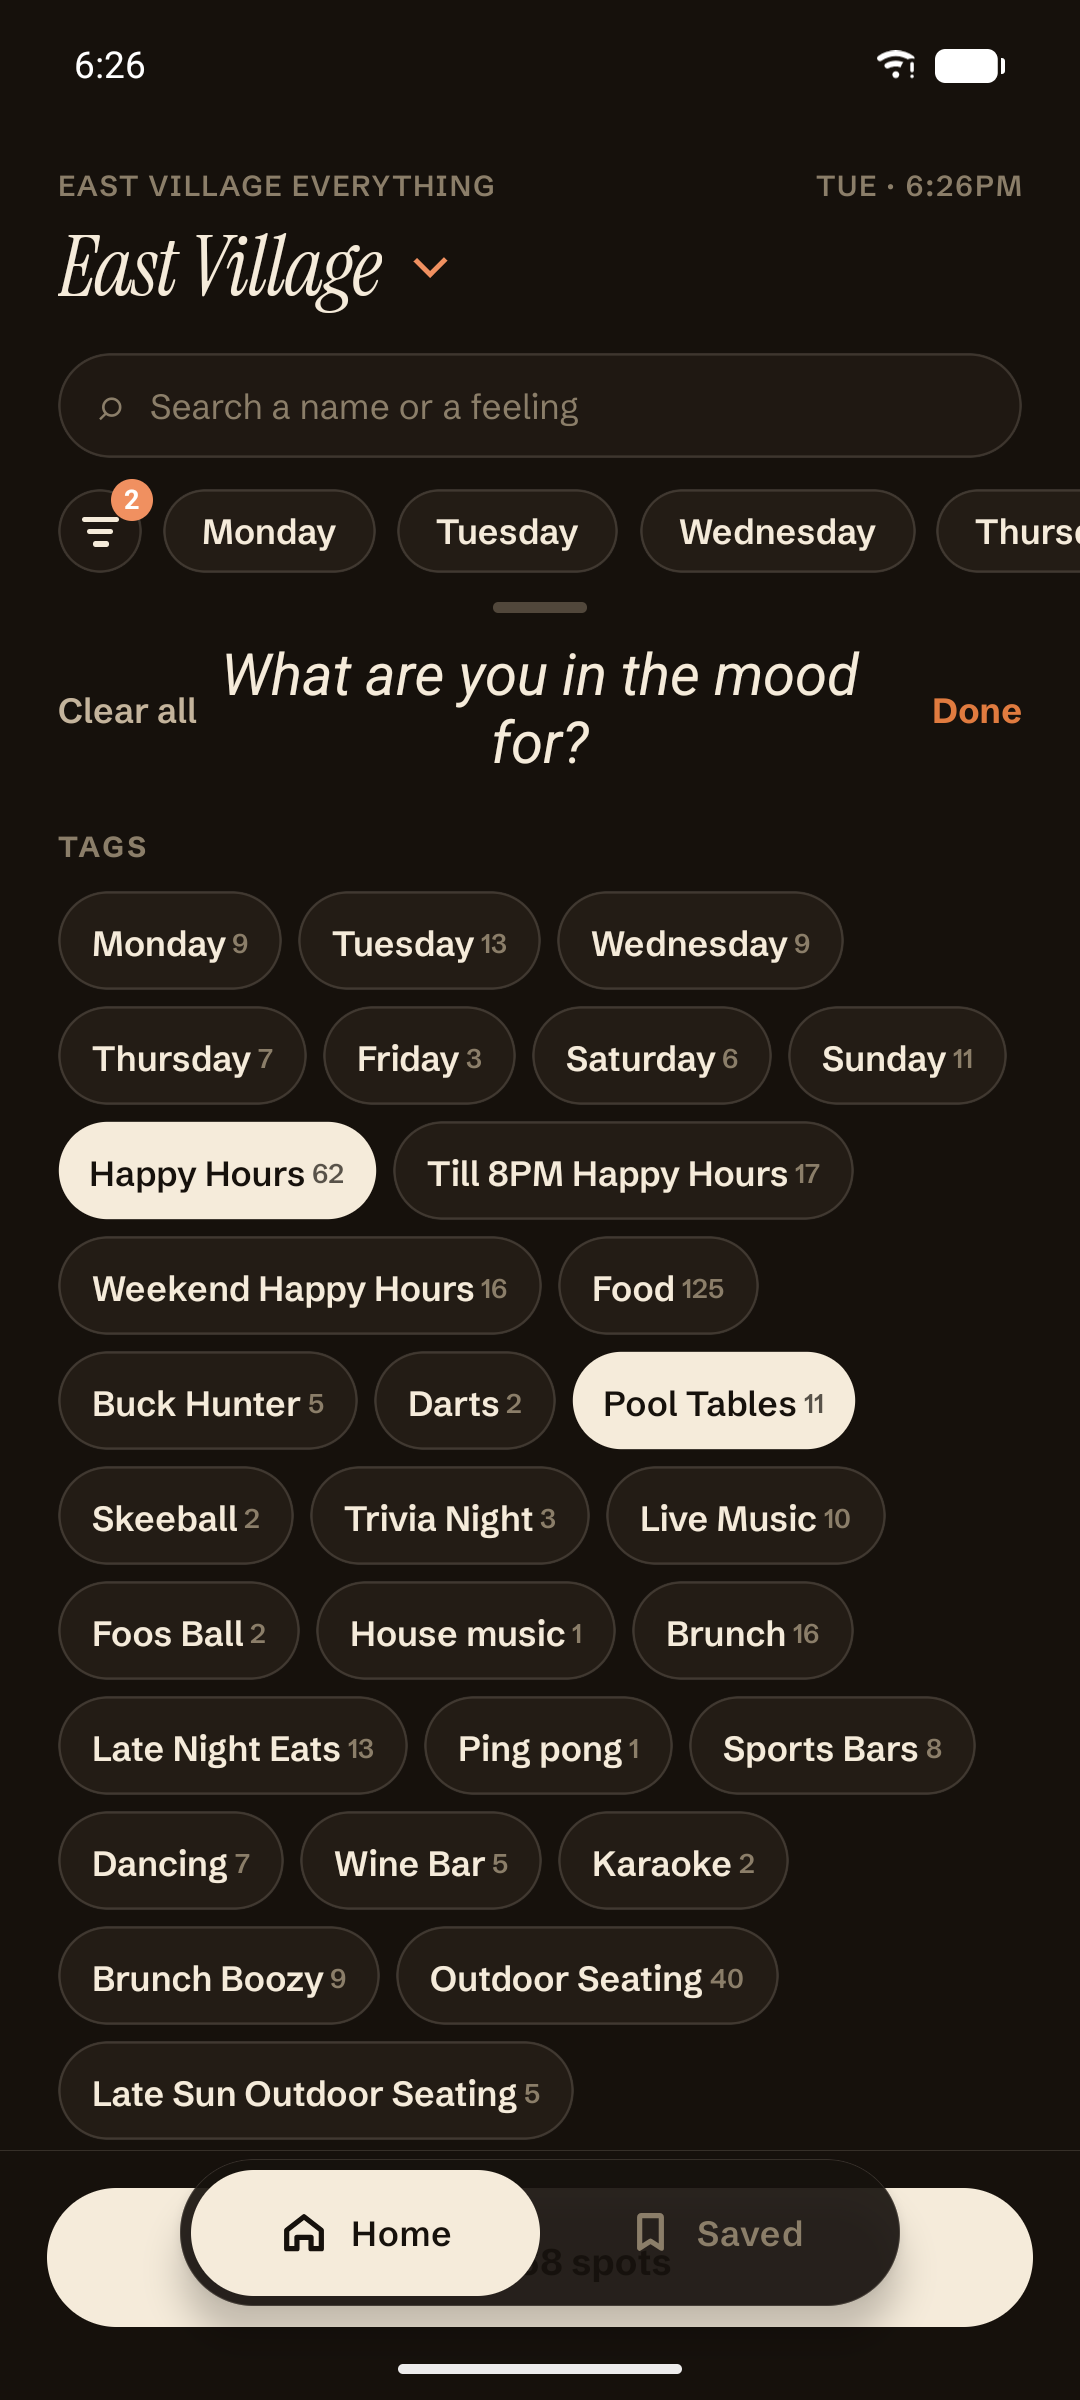
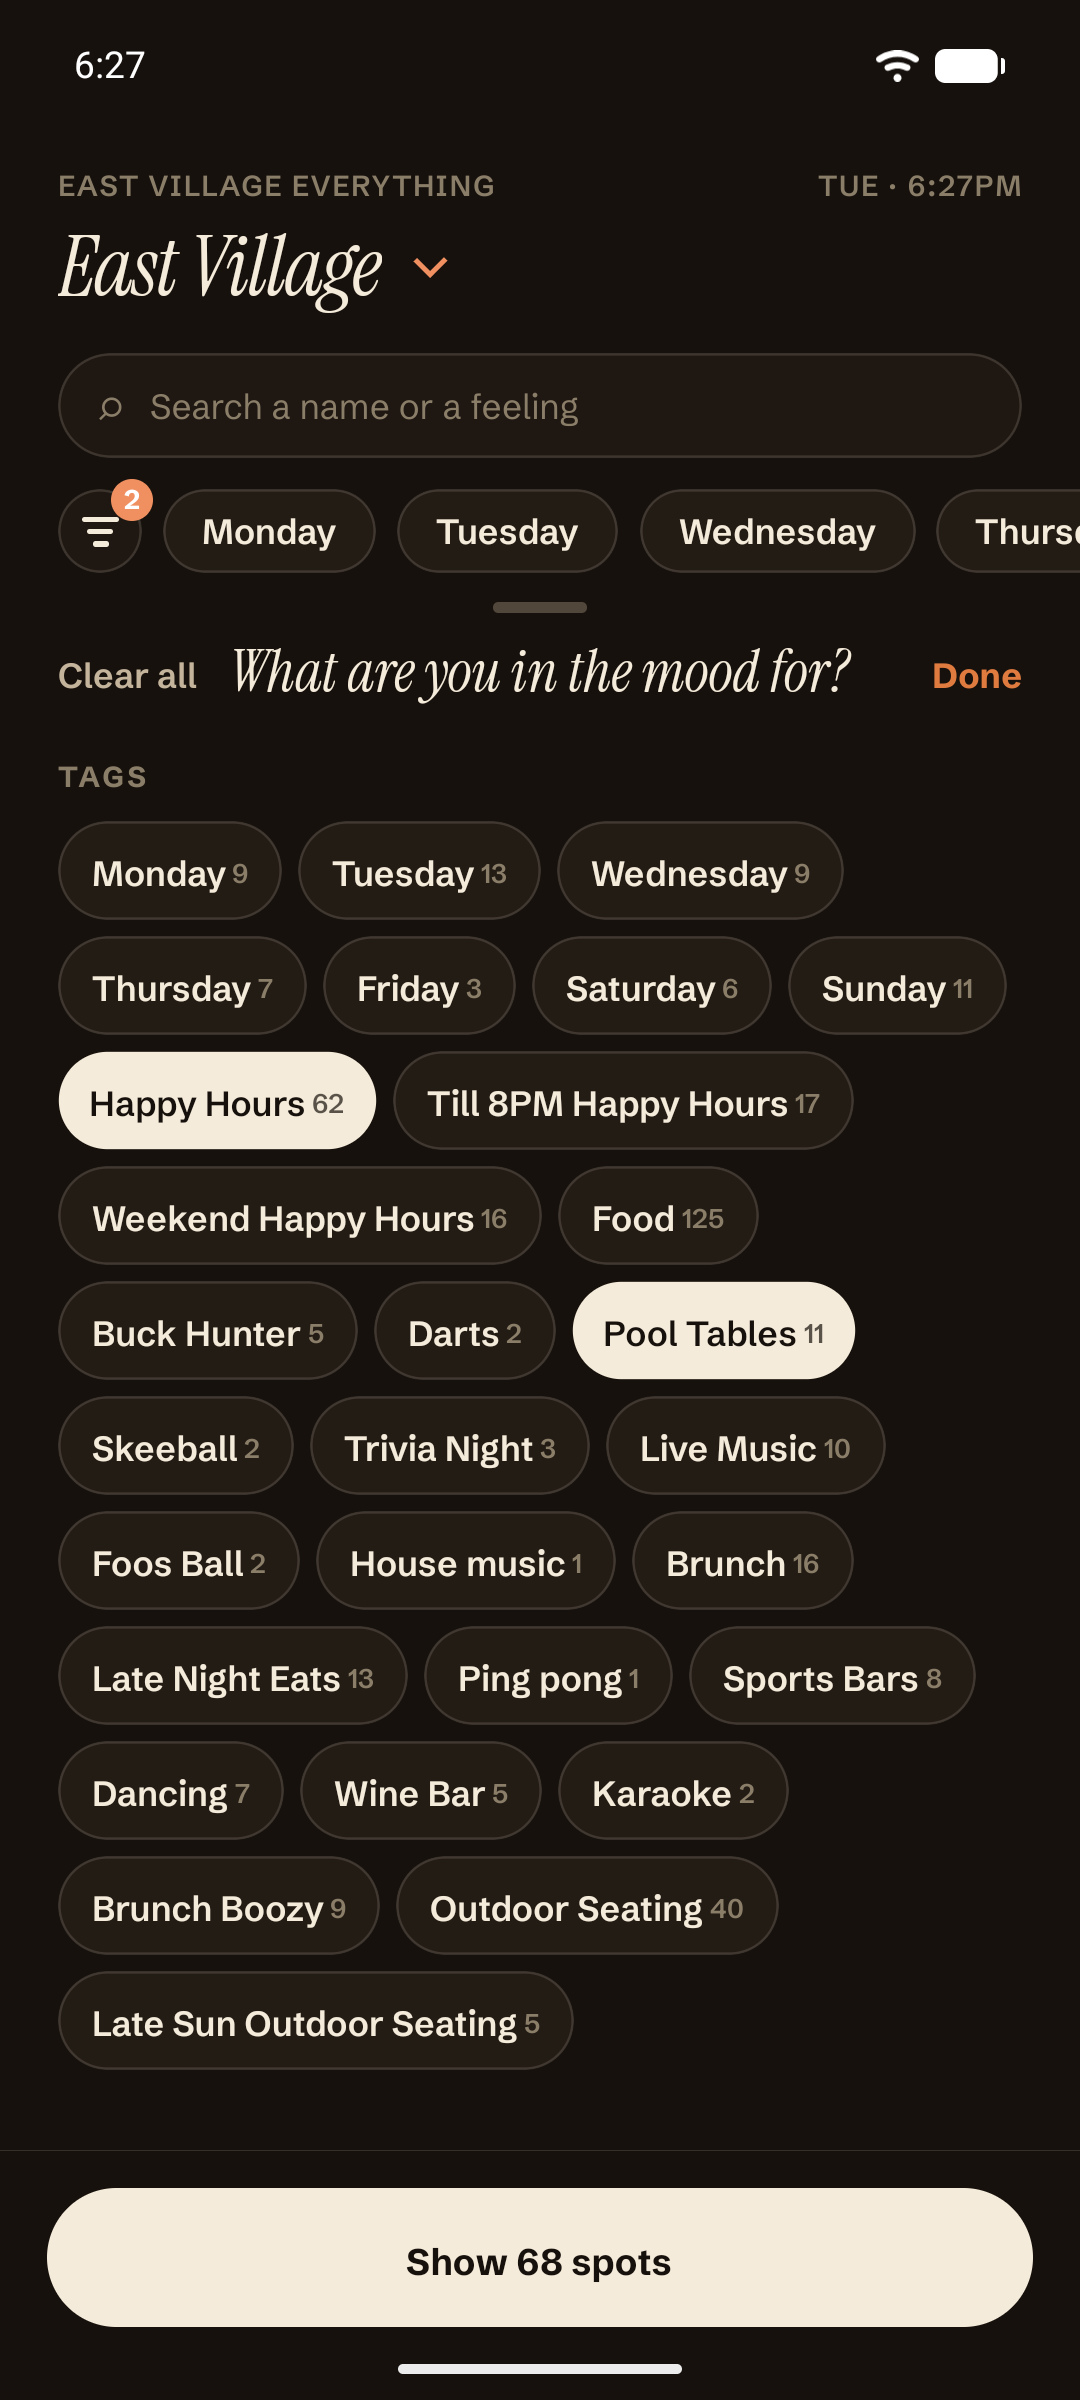
chore(mobile): 5.8 Android build 3 verified, device pass rerun, Play screenshots refreshed

diff --git a/scripts/ralph/plan.md b/scripts/ralph/plan.md
@@ -153,7 +153,7 @@ task may revisit:
   Done when: `cd apps/mobile && npx tsc --noEmit && npm test` pass with the new tests; `grep -rn "fontStyle: 'italic'" apps/mobile/src` prints nothing; screenshots looked at on iOS (and Android if Expo Go installed) show: the filter sheet open with the whole "Show n spots" button visible and no capsule, the capsule back after closing, the sheet title on one line in the serif italic, and the Saved tab's count equal to the number of saved rows. Prefix: `fix(mobile)`.
 - [x] **5.7 iOS build 14 to TestFlight.** Blocked by: 5.6. `apps/mobile/app.json`: `ios.buildNumber` "14" and `android.versionCode` 3 (`expo.version` stays 1.1.0). Regenerate the Play changelog as `metadata/android/en-US/changelogs/3.txt` (same text as `2.txt`; delete `2.txt`; update `scripts/app-store-metadata.mjs` if it hard-codes the number, better: read `versionCode` from `app.json`). Push to main (pre-push checks from the prompt) and wait for the workflows. Then exactly as 5.2: `eas build --local --profile production --platform ios --output ./build-14.ipa --non-interactive` and `eas submit --profile production --platform ios --path ./build-14.ipa --non-interactive --wait`. The 1.1.0 version and its text already exist in App Store Connect; do not run `deliver` again, do not submit for review.
   Done when: `eas submit` exited 0; the App Store Connect check from the 5.2 entry shows build 14 for 1.1.0 processing or VALID and the 1.1.0 version still PREPARE_FOR_SUBMISSION; `progress.txt` records it. Prefix: `chore(mobile)`.
-- [ ] **5.8 Android bundle rebuilt at versionCode 3, device pass rerun, screenshots refreshed.** Blocked by: 5.7. Same as 5.3 with the new commit: the production bundle and the preview APK on EAS, downloaded to `apps/mobile/build-3.aab` and `apps/mobile/build-3.apk`; `bundletool dump manifest` shows `versionCode` 3, `versionName` 1.1.0, `targetSdkVersion` 35 or higher; the signer SHA-256 is the upload key from 2.3. Rerun the nine-step device pass from 5.3 on `eve-pixel` with `build-3.apk` (run the logcat check before the airplane-mode step, or use the pattern `FATAL EXCEPTION| E AndroidRuntime`), plus four more steps, each with a screenshot looked at: (10) the filter sheet open shows the whole "Show n spots" button and no Home/Saved capsule; tapping the button closes the sheet and the capsule returns; (11) the sheet title is on one line in the serif italic; (12) the Saved tab's count line equals the number of saved rows; (13) photo paging: find a prod place with more than one photo (`for id in $(curl -s https://eastvillageeverything.nyc/api/places | jq -r '.[].id'); do …/api/places/$id | jq '.photos | length'`; stop at the first with 2 or more), open it, swipe the hero, and confirm the second photo, the dots and the caption change; if no place has two photos, write that and skip the step, do not add a photo to prod. Retake `05-filters.png` and `06-saved.png` under `docs/app-store/android/` (and any other of the six that changed) from this build and rerun `node scripts/app-store-metadata.mjs`. Delete `apps/mobile/build-2.aab` and `build-2.apk`. In this file, update task 2.6 to submit the 5.8 build id (`--path ./build-3.aab` as the fallback, `--version_code 3`) and task 2.7 to name `build-3.apk`; in `docs/app-store/play-release-runbook.md` replace every `build-2` and version code 2 with 3. Any failed step becomes a `fix(mobile)` task under this one and the box stays unticked.
+- [x] **5.8 Android bundle rebuilt at versionCode 3, device pass rerun, screenshots refreshed.** Blocked by: 5.7. Same as 5.3 with the new commit: the production bundle and the preview APK on EAS, downloaded to `apps/mobile/build-3.aab` and `apps/mobile/build-3.apk`; `bundletool dump manifest` shows `versionCode` 3, `versionName` 1.1.0, `targetSdkVersion` 35 or higher; the signer SHA-256 is the upload key from 2.3. Rerun the nine-step device pass from 5.3 on `eve-pixel` with `build-3.apk` (run the logcat check before the airplane-mode step, or use the pattern `FATAL EXCEPTION| E AndroidRuntime`), plus four more steps, each with a screenshot looked at: (10) the filter sheet open shows the whole "Show n spots" button and no Home/Saved capsule; tapping the button closes the sheet and the capsule returns; (11) the sheet title is on one line in the serif italic; (12) the Saved tab's count line equals the number of saved rows; (13) photo paging: find a prod place with more than one photo (`for id in $(curl -s https://eastvillageeverything.nyc/api/places | jq -r '.[].id'); do …/api/places/$id | jq '.photos | length'`; stop at the first with 2 or more), open it, swipe the hero, and confirm the second photo, the dots and the caption change; if no place has two photos, write that and skip the step, do not add a photo to prod. Retake `05-filters.png` and `06-saved.png` under `docs/app-store/android/` (and any other of the six that changed) from this build and rerun `node scripts/app-store-metadata.mjs`. Delete `apps/mobile/build-2.aab` and `build-2.apk`. In this file, update task 2.6 to submit the 5.8 build id (`--path ./build-3.aab` as the fallback, `--version_code 3`) and task 2.7 to name `build-3.apk`; in `docs/app-store/play-release-runbook.md` replace every `build-2` and version code 2 with 3. Any failed step becomes a `fix(mobile)` task under this one and the box stays unticked.
   Done when: both builds `FINISHED`; manifest and signature checks recorded with the build ids; all thirteen steps passed (or 13 skipped with the reason) with screenshots looked at; `grep -rn "build-2\|version_code 2\|versionCode 2" docs/app-store/play-release-runbook.md scripts/ralph/plan.md` prints only lines inside ticked tasks. Prefix: `chore(mobile)`.
 - [ ] **5.5 [HUMAN] Try iOS 1.1.0 and release it.** Blocked by: 5.7. Install build 14 from TestFlight. Also check the three fixes from 5.6: the filter sheet's button is not covered, and the Saved tab's count matches its rows. Switch neighborhoods from the title, relaunch, search across neighborhoods, check Saved, open a Lower East Side place's map, swipe photos on a place that has several (add a second photo to one through the admin if none does). Read the 1.1.0 description and release notes in App Store Connect. Submit for review and release.
   Done when: 1.1.0 is released on the App Store, or every problem is a `fix(mobile)` task under a new Phase 5b in this file.
@@ -162,9 +162,9 @@ task may revisit:
 
 - [ ] **2.4 [HUMAN] Play Console: account checks, app, service account.** Follow `docs/app-store/play-release-runbook.md` sections 1 to 4 (written by 5.4; until then the short version is: the Android device check on a real phone, then the contact phone number, then Create app "East Village Everything" / English (US) / app / free, then Setup > API access with a service account that has Release manager and a JSON key saved as `apps/mobile/google-play-key.json`). Write in `progress.txt` whether the account shows production access or the closed-testing requirement.
   Done when: `ls apps/mobile/google-play-key.json` exists locally and `progress.txt` has the production-access status.
-- [ ] **2.6 Submit the staged bundle to the internal track and upload the listing.** Blocked by: 2.4, 5.3, 5.4. `cd apps/mobile && fastlane run validate_play_store_json_key json_key:./google-play-key.json`, then `eas submit --platform android --profile production --id <the production build id recorded in 5.3> --non-interactive --wait` (or `--path ./build-2.aab` if EAS no longer has the artifact). Then `fastlane supply --json_key ./google-play-key.json --package_name com.eastvillageeverything.app --metadata_path ./fastlane/metadata/android --skip_upload_apk --skip_upload_aab --version_code 2`. If `eas submit` says the first upload must be manual, or `supply` says the listing cannot be set before the first upload, write the exact message in `progress.txt`, leave the box unticked, and add the manual upload of `build-2.aab` (Play Console > Testing > Internal testing) to the top of 2.7.
+- [ ] **2.6 Submit the staged bundle to the internal track and upload the listing.** Blocked by: 2.4, 5.3, 5.4, 5.8. `cd apps/mobile && fastlane run validate_play_store_json_key json_key:./google-play-key.json`, then `eas submit --platform android --profile production --id b32c4630-d69f-4e78-9918-6170b018f94c --non-interactive --wait` (the production build from 5.8, `versionCode` 3; or `--path ./build-3.aab` if EAS no longer has the artifact). Then `fastlane supply --json_key ./google-play-key.json --package_name com.eastvillageeverything.app --metadata_path ./fastlane/metadata/android --skip_upload_apk --skip_upload_aab --version_code 3`. If `eas submit` says the first upload must be manual, or `supply` says the listing cannot be set before the first upload, write the exact message in `progress.txt`, leave the box unticked, and add the manual upload of `build-3.aab` (Play Console > Testing > Internal testing) to the top of 2.7.
   Done when: `eas submit` and `fastlane supply` exited 0 and `progress.txt` records the Play Console app id. Prefix: `chore(mobile)`.
-- [ ] **2.7 [HUMAN] Play Console: forms, test, release.** Blocked by: 2.6. Follow the runbook sections 6 to 9. Device pass on the emulator with `apps/mobile/build-2.apk` (`emulator -avd eve-pixel`, same code as the store bundle), or on a real phone from the internal testing link.
+- [ ] **2.7 [HUMAN] Play Console: forms, test, release.** Blocked by: 2.6. Follow the runbook sections 6 to 9. Device pass on the emulator with `apps/mobile/build-3.apk` (`emulator -avd eve-pixel`, same code as the store bundle), or on a real phone from the internal testing link.
   Done when: the listing is complete in Play Console and the release is rolling out on the track the account allows, or every problem is a `fix(mobile)` task under a new Phase 6b in this file.
 
 ## Deferred, not in this plan

diff --git a/docs/app-store/play-release-runbook.md b/docs/app-store/play-release-runbook.md
@@ -10,9 +10,9 @@ What is staged:
 | Thing | Value |
 | --- | --- |
 | Package | `com.eastvillageeverything.app` |
-| Version | 1.1.0, `versionCode` 2 |
-| App bundle | `apps/mobile/build-2.aab` (EAS build `ba53f91f-6020-4066-96a3-b4769cc8920d`, target SDK 36, signed with the EAS upload key) |
-| Same code as an APK | `apps/mobile/build-2.apk`, installed on the `eve-pixel` emulator |
+| Version | 1.1.0, `versionCode` 3 |
+| App bundle | `apps/mobile/build-3.aab` (EAS build `b32c4630-d69f-4e78-9918-6170b018f94c`, target SDK 36, signed with the EAS upload key) |
+| Same code as an APK | `apps/mobile/build-3.apk`, installed on the `eve-pixel` emulator |
 | Listing text and images | `apps/mobile/fastlane/metadata/android/en-US/`, generated from `docs/app-store/play-listing.md` |
 | Developer account | `gulatilabs.me@gmail.com`, "Gulati Labs", id 7467548760272069888, personal account |
 | Console | `https://play.google.com/console/developers/7467548760272069888/home` |
@@ -198,7 +198,7 @@ In Play Console:
    ```
 
 3. The agent does task 2.6: validates the key
-   (`fastlane run validate_play_store_json_key`), submits `build-2.aab` to
+   (`fastlane run validate_play_store_json_key`), submits `build-3.aab` to
    the **internal testing** track as a **draft** release with `eas submit`,
    and uploads the title, descriptions, release notes, icon, feature graphic
    and six screenshots with `fastlane supply`.
@@ -208,7 +208,7 @@ In Play Console:
    step satisfies. If either tool refuses anyway, the agent writes the exact
    message in `progress.txt` and adds a manual upload to task 2.7:
    **Test and release > Testing > Internal testing > Create new release**,
-   upload `apps/mobile/build-2.aab`, **Next**, **Save as draft**.
+   upload `apps/mobile/build-3.aab`, **Next**, **Save as draft**.
 5. When the loop stops, read the 2.6 entry in `progress.txt`, then carry on
    with section 6.
 
@@ -394,7 +394,7 @@ review wait for this track.
    Android device will install the app, separated by commas. **Save
    changes**, then **Create**. Tick the list so it is selected for this
    track, and **Save**.
-2. **Releases** tab. The draft release for `2 (1.1.0)` made by task 2.6 is
+2. **Releases** tab. The draft release for `3 (1.1.0)` made by task 2.6 is
    there. Open it (**Edit release**); release notes should read "Pick a
    neighborhood: tap the title to move between the East Village, the Lower
    East Side and more. Swipe through a place's photos. Search now covers
@@ -452,7 +452,7 @@ Steps:
    name: `EVE closed test`. Add the testers' Google account addresses.
    **Save**.
 4. **Releases** tab > **Create new release** > **Add from library** and pick
-   bundle `2 (1.1.0)` (it is already uploaded; or promote the internal
+   bundle `3 (1.1.0)` (it is already uploaded; or promote the internal
    release if a **Promote release** button is offered, which is
    **unconfirmed**). Same release notes. **Next** > **Save** > **Send for
    review** from **Publishing overview** if the console asks. The first
@@ -534,10 +534,10 @@ Sources: <https://support.google.com/googleplay/android-developer/answer/9859348
    States. (The app is in English and about Manhattan; more countries can
    be added later.) Save.
 3. **Releases** tab > **Create new release** > **Add from library** > bundle
-   `2 (1.1.0)`. If the testing track's release page offers **Promote
+   `3 (1.1.0)`. If the testing track's release page offers **Promote
    release > Production** instead, that does the same thing
    (**unconfirmed**; the button is in Expo's guide, not Google's).
-4. Release name: leave the default `2 (1.1.0)`. Release notes, en-US: "Pick
+4. Release name: leave the default `3 (1.1.0)`. Release notes, en-US: "Pick
    a neighborhood: tap the title to move between the East Village, the Lower
    East Side and more. Swipe through a place's photos. Search now covers
    every neighborhood."

diff --git a/docs/app-store/play-listing.md b/docs/app-store/play-listing.md
@@ -134,7 +134,7 @@ them to `apps/mobile/fastlane/metadata/android/en-US/images/` as
 | `06-saved.png` | 1080 x 2400 | Phone screenshot 6 | Saved tab with four bookmarked places, one on the Lower East Side |
 
 Screenshots were captured from the `eve-pixel` AVD (Pixel 8, 1080 x 2400,
-420 dpi, Android 17) running the 1.1.0 EAS `preview` APK (`build-2.apk`,
+420 dpi, Android 17) running the 1.1.0 EAS `preview` APK (`build-3.apk`,
 the same commit as the store bundle) against production data, driven with
 `adb shell input`. Play accepts PNG or JPEG, 16:9 to 9:16, each
 side 320 to 3840 px, so the emulator's raw `screencap` output is uploaded as
